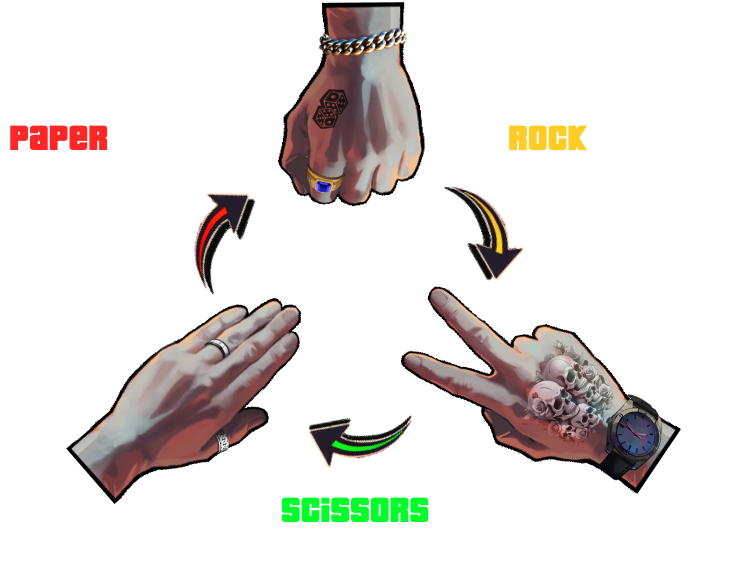
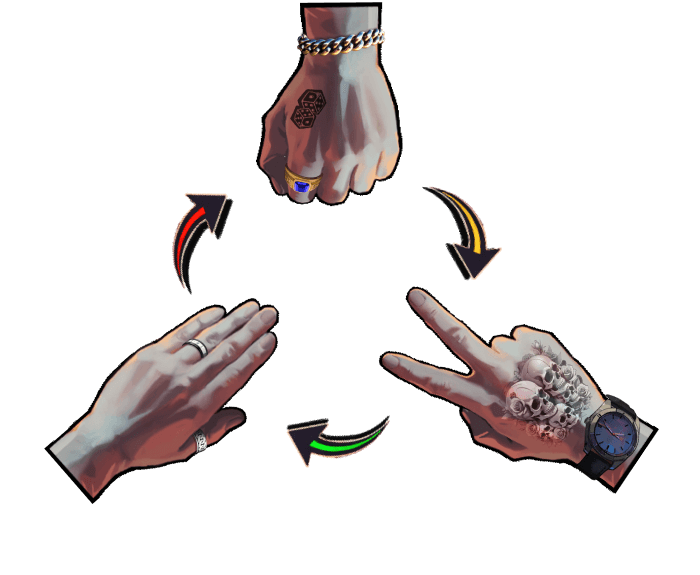
onboarding fix

diff --git a/src/pages/faq/home/index.js b/src/pages/faq/home/index.js
@@ -53,7 +53,7 @@ export default function Home() {
         if (window.Telegram?.WebApp?.HapticFeedback) {
             window.Telegram.WebApp.HapticFeedback.impactOccurred("heavy");
         }
-        if(slide === 6) {
+        if(slide === 7) {
             router.push('/main')
         } else {
             setSlide((prev) => prev + 1);
@@ -77,7 +77,7 @@ export default function Home() {
             <div>{t('FAQ.1.farmPool')} <a className={styles.yellow}> {t('FAQ.1.pool')}</a> {t('FAQ.1.end')}</div>
         </div>,
         <div className={styles.slideContent2} key={'slideContent2'}>
-            <div>{t('FAQ.2.btn')} <a className={styles.yellow}>{t('FAQ.2.claim')}</a>{t('FAQ.2.money')} <a className={styles.yellow}>{t('FAQ.2.farm')}</a> {t('FAQ.2.add')} <a className={styles.green}>{t('FAQ.2.balance')}</a> </div>
+            {t('FAQ.2.btn')} <a className={styles.yellow}>{t('FAQ.2.claim')} </a>{t('FAQ.2.money')} <a className={styles.yellow}>{t('FAQ.2.farm')}</a> {t('FAQ.2.add')} <a className={styles.green}>{t('FAQ.2.balance')}</a>
         </div>,
         <div className={styles.slideContent3} key={'slideContent3'}>
             <div><a className={styles.green}>{t('FAQ.3.account')}</a> - {t('FAQ.3.check')}</div>
@@ -101,6 +101,11 @@ export default function Home() {
         <div className={styles.slideContent7} key={'slideContent7'}>
             <div>{t('FAQ.7.friends')} <a className={styles.yellow}>{t('FAQ.7.invite')}</a> {t('FAQ.7.your')} <a className={styles.green}>{t('FAQ.7.gain')}</a> {t('FAQ.7.bonuses')}</div>
             <div>{t('FAQ.7.faq')}</div>
+        </div>,
+        <div className={styles.slideContent8} key={'slideContent8'}>
+            <div>AND DONT FORGET
+                TO PACK YOUR BAGS
+                IN THE FUTURE, BRO!</div>
         </div>
     ];
 
@@ -147,7 +152,7 @@ export default function Home() {
                 <div className={slide === 6 ? `${styles.item14} ${styles.visible}` : styles.item14}><FaqIconButton image={FAQ} alt={'home'} title={t('main.faq')} /></div>
             </div>
             <div className={styles.filter}>
-                <div className={styles.tutorial}>
+                <div className={slide === 7 ? styles.tutorial7 : styles.tutorial}>
                     <div className={styles.col}>
                         <div className={styles.dot}>.</div>
                         <div className={styles.navLeft} onClick={prevSlide}>
@@ -155,7 +160,7 @@ export default function Home() {
                         </div>
                         <div className={styles.dot}>.</div>
                     </div>
-                    <div className={styles.caption}>
+                    <div className={slide === 7 ? styles.caption7 : styles.caption}>
                         {slideContent[slide]}
                     </div>
                     <div className={styles.col}>
@@ -163,7 +168,7 @@ export default function Home() {
                         <div className={styles.navRight} onClick={nextSlide}>
                             <Image src={'/ArrowWhite.png'} alt={''} width={24} height={24} loading="lazy" />
                         </div>
-                        <div className={styles.pagination}>{slide+1}/7</div>
+                        <div className={styles.pagination}>{slide+1}/8</div>
                     </div>
                 </div>
             </div>

diff --git a/src/pages/faq/pvp/index.js b/src/pages/faq/pvp/index.js
@@ -84,8 +84,10 @@ export default function PvpBotPage() {
             <div>{t('PVP.3wins.first')} <a className={styles.yellow}>{t('PVP.3wins.3')}</a> {t('PVP.3wins.wins')} <br/>
                 {t('PVP.gl')}</div>
         </div>,
-        <div className={styles.slideContent6} key={'slideContent7'}>
-            <Image src={trio} alt={''} width={200} height={180} loading="lazy" />
+        <div className={styles.slideContent7} key={'slideContent7'}>
+            <div className={styles.beat1}><a className={styles.red}>{t('PVP.paper')}</a>{t('PVP.pr')}</div>
+            <div className={styles.beat2}><a className={styles.yellow}>{t('PVP.rock')}</a>{t('PVP.rs')}</div>
+            <div className={styles.beat3}><a className={styles.green}>{t('PVP.scissors')}</a>{t('PVP.sp')}</div>
         </div>
     ];
 
@@ -135,7 +137,7 @@ export default function PvpBotPage() {
                 </div>
             </div>
             <div className={slide === 0 ? styles.filter0 : styles.filter}>
-                <div className={slide === 4 ? styles.tutorial4 : styles.tutorial}>
+                <div className={slide === 4 ? styles.tutorial4 : (slide === 6 ? styles.tutorial7 : styles.tutorial)}>
                     <div className={styles.col}>
                         <div className={styles.dot}>1</div>
                         <div className={styles.navLeft} onClick={prevSlide}>

diff --git a/src/styles/faqPvp.module.scss b/src/styles/faqPvp.module.scss
@@ -368,6 +368,23 @@
   padding: 3px;
 }
 
+.tutorial7 {
+  width: 100%;
+  background-color: #4c3981;
+  background-image: url("/faq/trio.png");
+  background-repeat: no-repeat;
+  background-size: contain;
+  background-position: center;
+  height: fit-content;
+  border-radius: 18px;
+  margin: 5px 5px 110px 5px;
+  display: flex;
+  justify-content: space-between;
+  align-items: center;
+  gap: 5px;
+  padding: 3px;
+}
+
 .visible {
   z-index: 11;
 }
@@ -433,6 +450,10 @@
   color: #FFCC26;
 }
 
+.red {
+  color: red;
+}
+
 .slideContent1, .slideContent4 {
   margin: auto;
   width: fit-content;
@@ -484,4 +505,32 @@
   font-family: 'Oswald';
   font-size: auto-clamp(16, 24);
   text-align: center;
+}
+
+.slideContent7 {
+  margin: auto;
+  width: fit-content;
+  display: grid;
+  grid-template-rows: repeat(3, 1fr);
+  grid-template-columns: repeat(3, 1fr);
+  color: #FFFFFF;
+  gap: 3px;
+  font-family: 'Oswald';
+  font-size: auto-clamp(12, 20);
+  text-align: center;
+  padding-top: 5px;
+  padding-bottom: 5px;
+}
+.beat1 {
+  grid-column-start: 0;
+  grid-row-start: 0;
+}
+.beat2 {
+  grid-column-start: 3;
+  grid-row-start: 0;
+}
+.beat3 {
+  grid-column-start: 2;
+  grid-row-start: 3;
+  padding-top: 35px;
 }

diff --git a/src/styles/faqHome.module.scss b/src/styles/faqHome.module.scss
@@ -203,6 +203,23 @@
   padding: 5px;
 }
 
+.tutorial7 {
+  width: 100%;
+  background-color: #4c3981;
+  background-image: url('/faq/airdrop.png');
+  background-size: contain;
+  background-repeat: no-repeat;
+  background-position: center;
+  height: 50%;
+  border-radius: 18px;
+  margin: 5px 5px 65px 5px;
+  display: flex;
+  justify-content: space-between;
+  align-items: center;
+  padding: 5px;
+}
+
+
 .visible {
   z-index: 11;
 }
@@ -317,4 +334,26 @@
   font-family: 'Oswald';
   font-size: auto-clamp(16, 24);
   text-align: center;
+}
+
+.caption7 {
+  height: 100%;
+}
+.slideContent8 {
+  margin: auto;
+  width: fit-content;
+  height: 100%;
+  color: #FFFFFF;
+  gap: 3px;
+  font-family: 'Oswald';
+  font-size: auto-clamp(12, 20);
+  text-align: center;
+  display: grid;
+  grid-template-columns: repeat(2, 1fr);
+  grid-template-rows: repeat(3, 1fr);
+  div{
+    color: #57E22C;
+    grid-row-start: 3;
+    grid-column-start: 2;
+  }
 }

diff --git a/src/components/guard/Guard.jsx b/src/components/guard/Guard.jsx
@@ -8,6 +8,9 @@ const MobileGuard = () => {
         const checkMobileTelegram = () => {
             if (typeof window !== 'undefined' && window.Telegram && window.Telegram.WebApp) {
                 const platform = window.Telegram.WebApp.platform;
+                if (window.innerWidth > 450) {
+                    router.push('/qr');
+                }
                 if (platform === 'android' || platform === 'ios') {
                     console.log("Пользователь находится в Telegram Web App на мобильном устройстве.");
                 } else {
